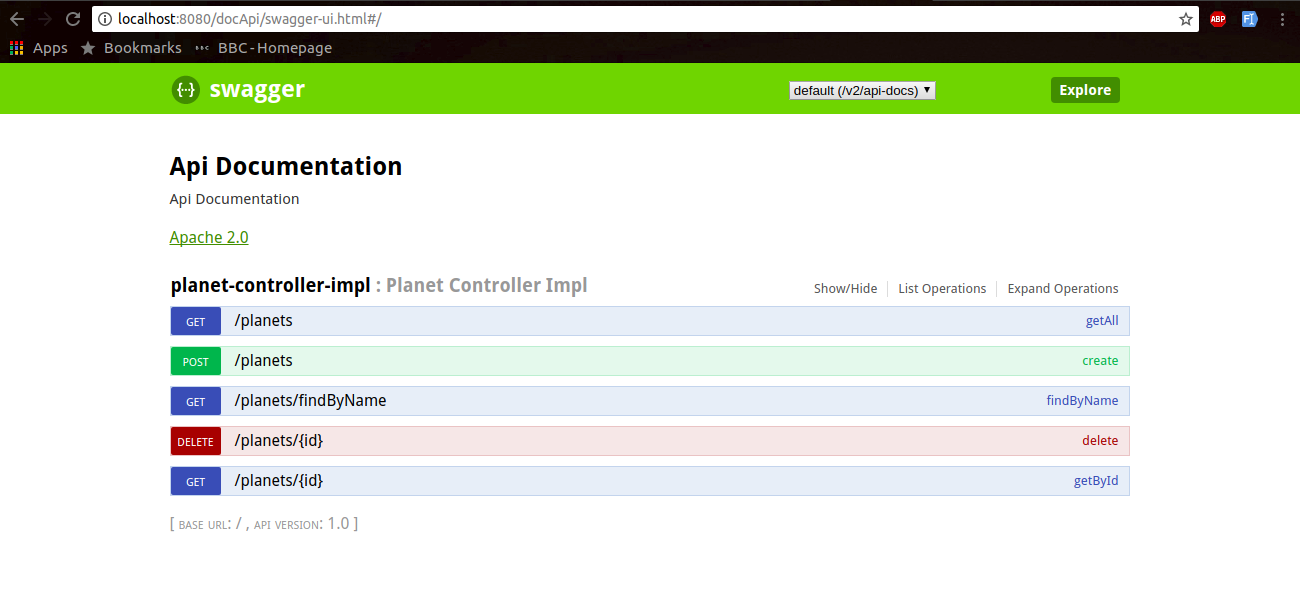
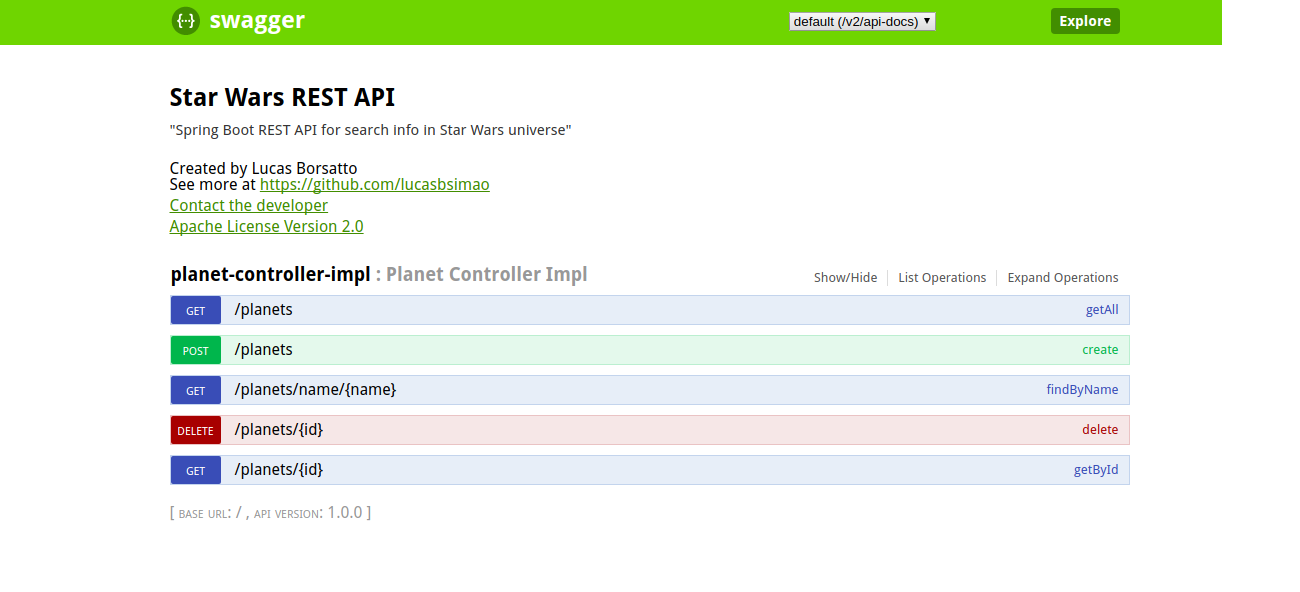
Atualizando Readme

Changed region(s): [[0.0, 0.0, 1.0, 0.4257], [0.1231, 0.4561, 0.8923, 0.9122]]

diff --git a/src/main/java/br/com/b2w/controllers/interfaces/IPlanetController.java b/src/main/java/br/com/b2w/controllers/interfaces/IPlanetController.java
@@ -2,10 +2,11 @@ package br.com.b2w.controllers.interfaces;
 
 import java.util.List;
 
+import javax.websocket.server.PathParam;
+
 import org.springframework.http.ResponseEntity;
 import org.springframework.web.bind.annotation.GetMapping;
 import org.springframework.web.bind.annotation.RequestMapping;
-import org.springframework.web.bind.annotation.RequestParam;
 
 import br.com.b2w.entities.Planet;
 
@@ -17,6 +18,6 @@ public interface IPlanetController extends IGenericController<Planet>{
 	 * @param name
 	 * @return The T entity with an ok response (200) accordingly to <a href="https://tools.ietf.org/html/rfc7231#section-4.3">HTTP</a>
 	 */
-	@GetMapping(value = "/findByName")
-	public ResponseEntity<List<Planet>> findByName(@RequestParam(value = "name") String name);
+	@GetMapping(value = "/name/{name}")
+	public ResponseEntity<List<Planet>> findByName(@PathParam(value = "name") String name);
 }

diff --git a/src/main/java/br/com/b2w/controllers/PlanetControllerImpl.java b/src/main/java/br/com/b2w/controllers/PlanetControllerImpl.java
@@ -2,9 +2,10 @@ package br.com.b2w.controllers;
 
 import java.util.List;
 
+import javax.websocket.server.PathParam;
+
 import org.springframework.http.HttpStatus;
 import org.springframework.http.ResponseEntity;
-import org.springframework.web.bind.annotation.RequestParam;
 import org.springframework.web.bind.annotation.RestController;
 
 import br.com.b2w.controllers.interfaces.IPlanetController;
@@ -20,7 +21,7 @@ public class PlanetControllerImpl extends GenericControllerImpl<Planet, IPlanetS
 	 */
 	@Override
 	//@Async
-	public ResponseEntity<List<Planet>> findByName(@RequestParam(value = "name") String name) {
+	public ResponseEntity<List<Planet>> findByName(@PathParam(value = "name") String name) {
 		List<Planet> listPlanets = genericService.findByName(name);
 		
 		if(listPlanets == null)

diff --git a/README.md b/README.md
@@ -1,5 +1,11 @@
-[![Build Status](https://travis-ci.org/lucasbsimao/purchaseapp.svg?branch=master)](https://travis-ci.org/lucasbsimao/StarWarsAPI)
+<div align="center">
 
+![Star Wars](https://github.com/lucasbsimao/StarWarsAPI/blob/master/images/star-wars.jpeg "Star Wars")
+
+</div>
+
+
+[![Build Status](https://travis-ci.org/lucasbsimao/purchaseapp.svg?branch=master)](https://travis-ci.org/lucasbsimao/StarWarsAPI)
 
 # StarWarsAPI
 
@@ -22,6 +28,40 @@ Há também a necessidade que o [SwAPI](https://swapi.co/) esteja online, do con
 
 A documentação padrão da aplicação é fornecida pelo [Swagger](https://swagger.io/). Assim, uma vez que a API estiver online, a documentação estará disponível no endpoint ``` /docApi/swagger-ui.html ```, como é visto abaixo:
 
+<div align="center">
+
 ![Swagger](https://github.com/lucasbsimao/StarWarsAPI/blob/master/images/swagger.png "Swagger")
 
+</div>
 
+O Swagger também permite fazer testes de requisição. Porém outras aplicações também podem ser utilizadas, como o [Postman](https://www.getpostman.com/).
+
+#### 3.1 Lista de funcionalidades
+
+1. Criando um planeta:
+
+Endpoint: /planets/
+
+```JSON
+{
+    "name": "Alderaan",
+    "climate": "temperate",
+    "terrain": "terrain": "grasslands, mountains"
+}
+```
+
+2. Deletando um planeta:
+
+Endpoint: /planets/{id}
+
+3. Listar todos os planetas
+
+Endpoint: /planets/
+
+4. Buscar planeta por id:
+
+Endpoint: /planets/{id}
+
+5. Buscar planeta por nome:
+
+Endpoint: /planets/name/{name}
